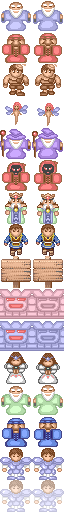
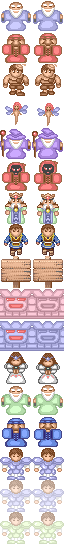
add new npc - yellowgreen hero

diff --git a/project/floors/MT10.js b/project/floors/MT10.js
@@ -638,7 +638,7 @@ main.floors.MT10=
     [  1,  1,  1, 85,  1,  1, 85,  1,  1, 85,  1,  1,  1],
     [  1,210,210,210,  1,  0,  0,  0,  1,212,212,212,  1],
     [  1,210,1582,210,  1,  0,240,  0,  1,212,1582,212,  1],
-    [  1,210,210,210,  1,  0,  0,  0,  1,212,212,212,  1],
+    [  1,210,210,210,  1,  0,1583,  0,  1,212,212,212,  1],
     [  1,  1,  1,  1,  1,  1, 85,  1,  1,  1,  1,  1,  1],
     [ 87,  0,  0, 85,  0,  0,  0,  0,  0, 85,  0, 27,  1],
     [  1,  1,  1,  1,  1,  1,  1,  1,  1,  1,  1,  1,  1]

diff --git a/project/maps.js b/project/maps.js
@@ -1475,5 +1475,6 @@ var maps_90f36752_8815_4be8_b32b_d7fad1d0542e =
 	"1579": {"cls":"items","id":"I1579"},
 	"1580": {"cls":"items","id":"I1580"},
 	"1581": {"cls":"npcs","id":"N1581"},
-	"1582": {"cls":"npcs","id":"N1582"}
+	"1582": {"cls":"npcs","id":"N1582"},
+	"1583": {"cls":"npcs","id":"N1583"}
 }

diff --git a/project/icons.js b/project/icons.js
@@ -119,7 +119,8 @@ var icons_4665ee12_3a1f_44a4_bea3_0fccba634dc1 =
 		"greenMan": 12,
 		"blueTrader": 13,
 		"N1581": 14,
-		"N1582": 15
+		"N1582": 15,
+		"N1583": 16
 	},
 	"npc48": {
 		"npc0": 0,
